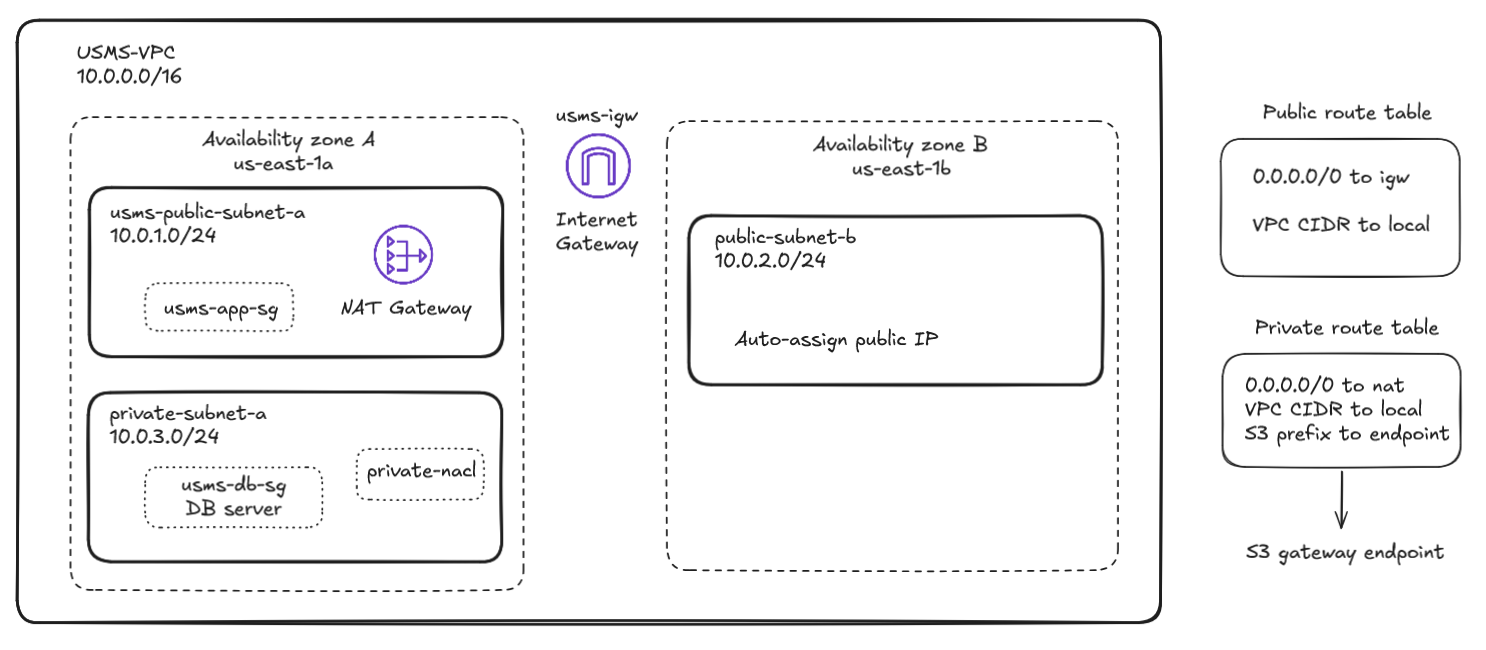
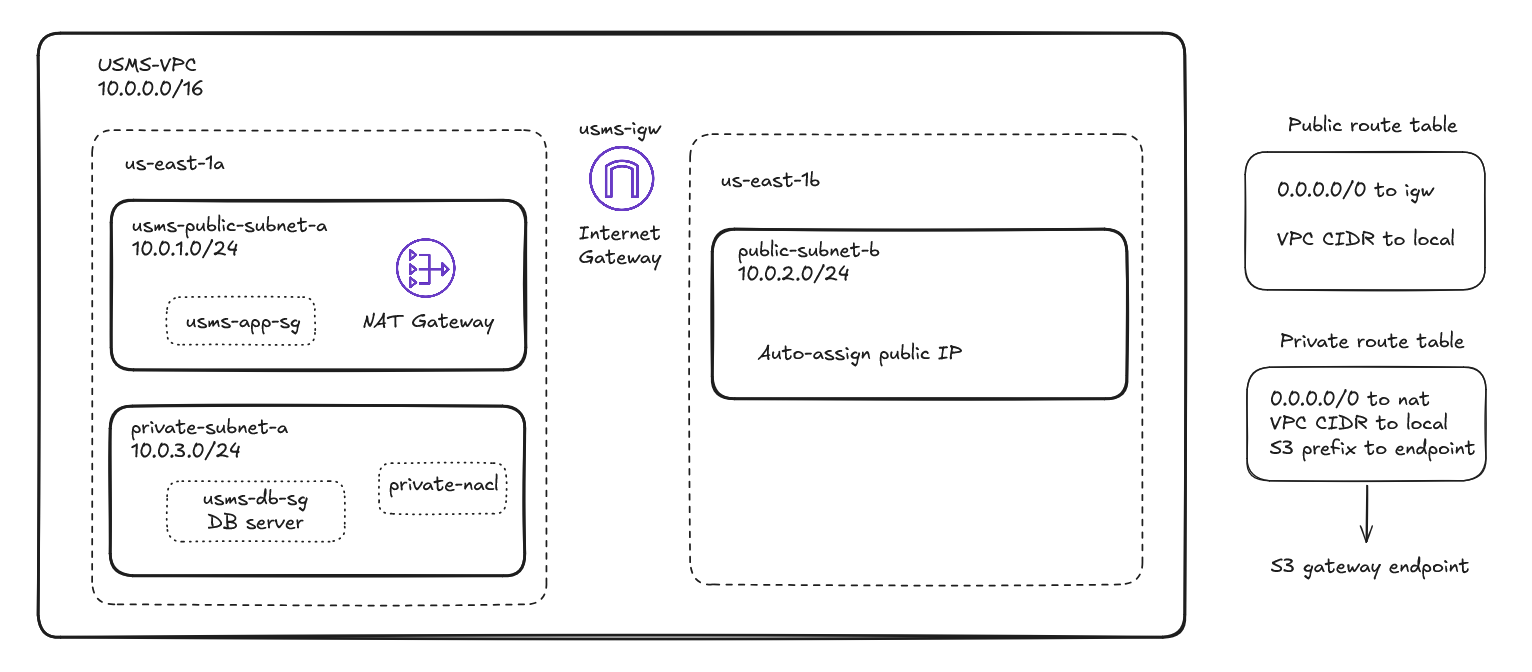
Update VPC lab configuration and documentation

diff --git a/labs/lab-02-vpc/README.md b/labs/lab-02-vpc/README.md
@@ -295,7 +295,9 @@ Every shell variable you have created dies when you close this terminal. This st
 
 ### Verification
 
-Wrote an script to read the environment variables from configs/lab-02.env and verify that they are set correctly.
+Wrote an script to read the environment variables from configs/lab-02.env and verify that they are set correctly. All test cases passed, confirming that the environment variables were set correctly.
+
+![alt text](assets/ver.png)
 
 ### Analysis and Discussion
 
